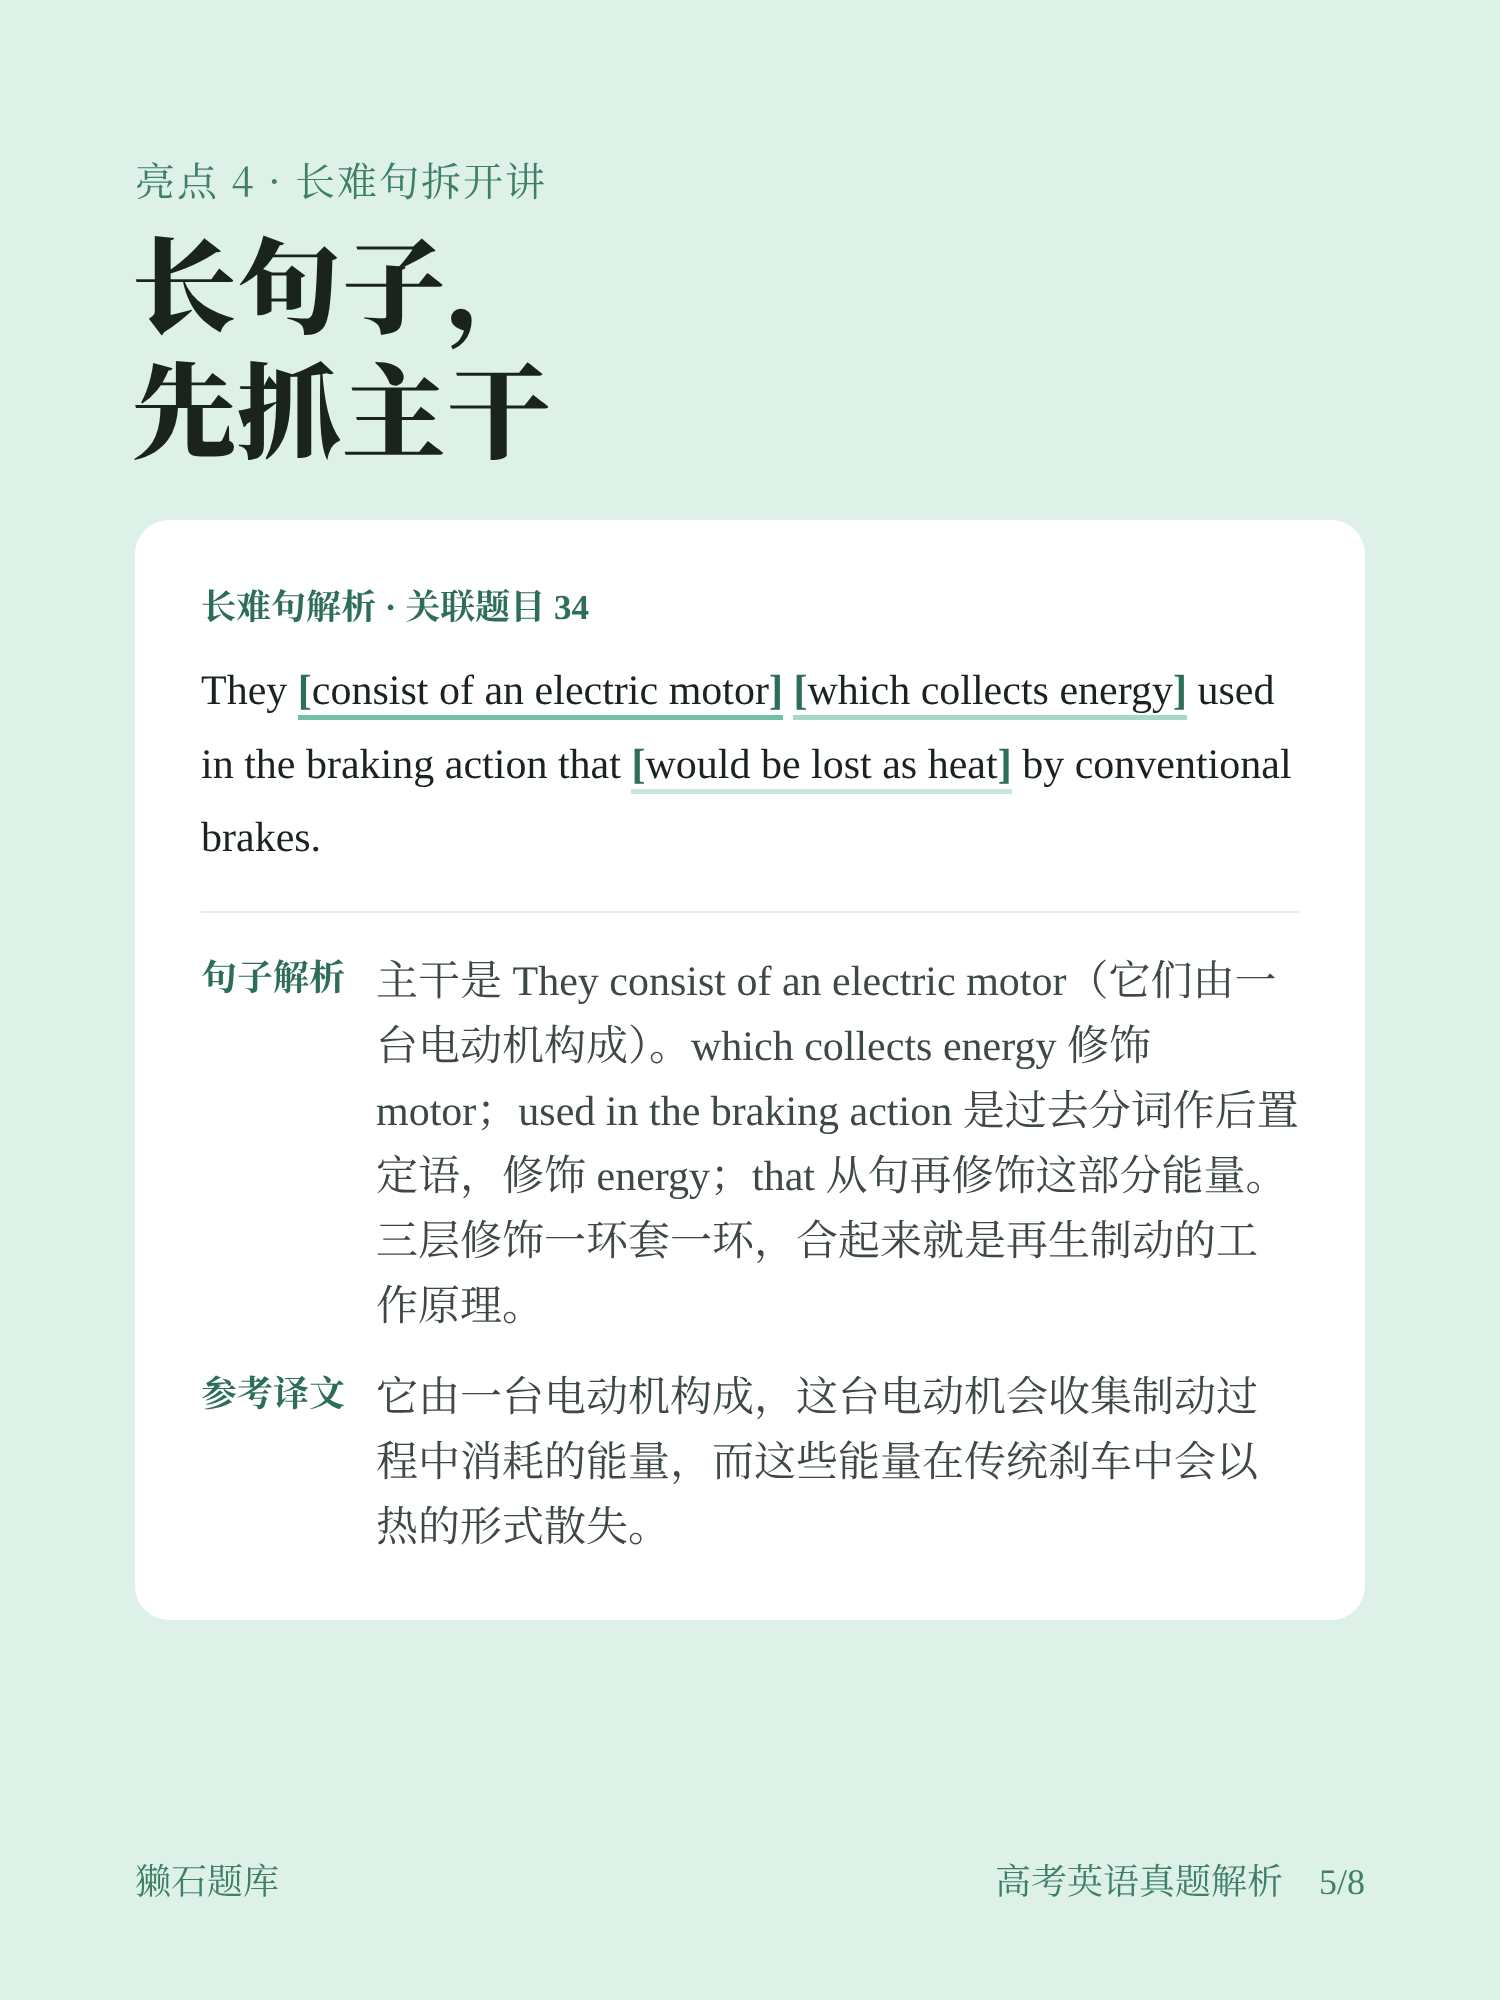
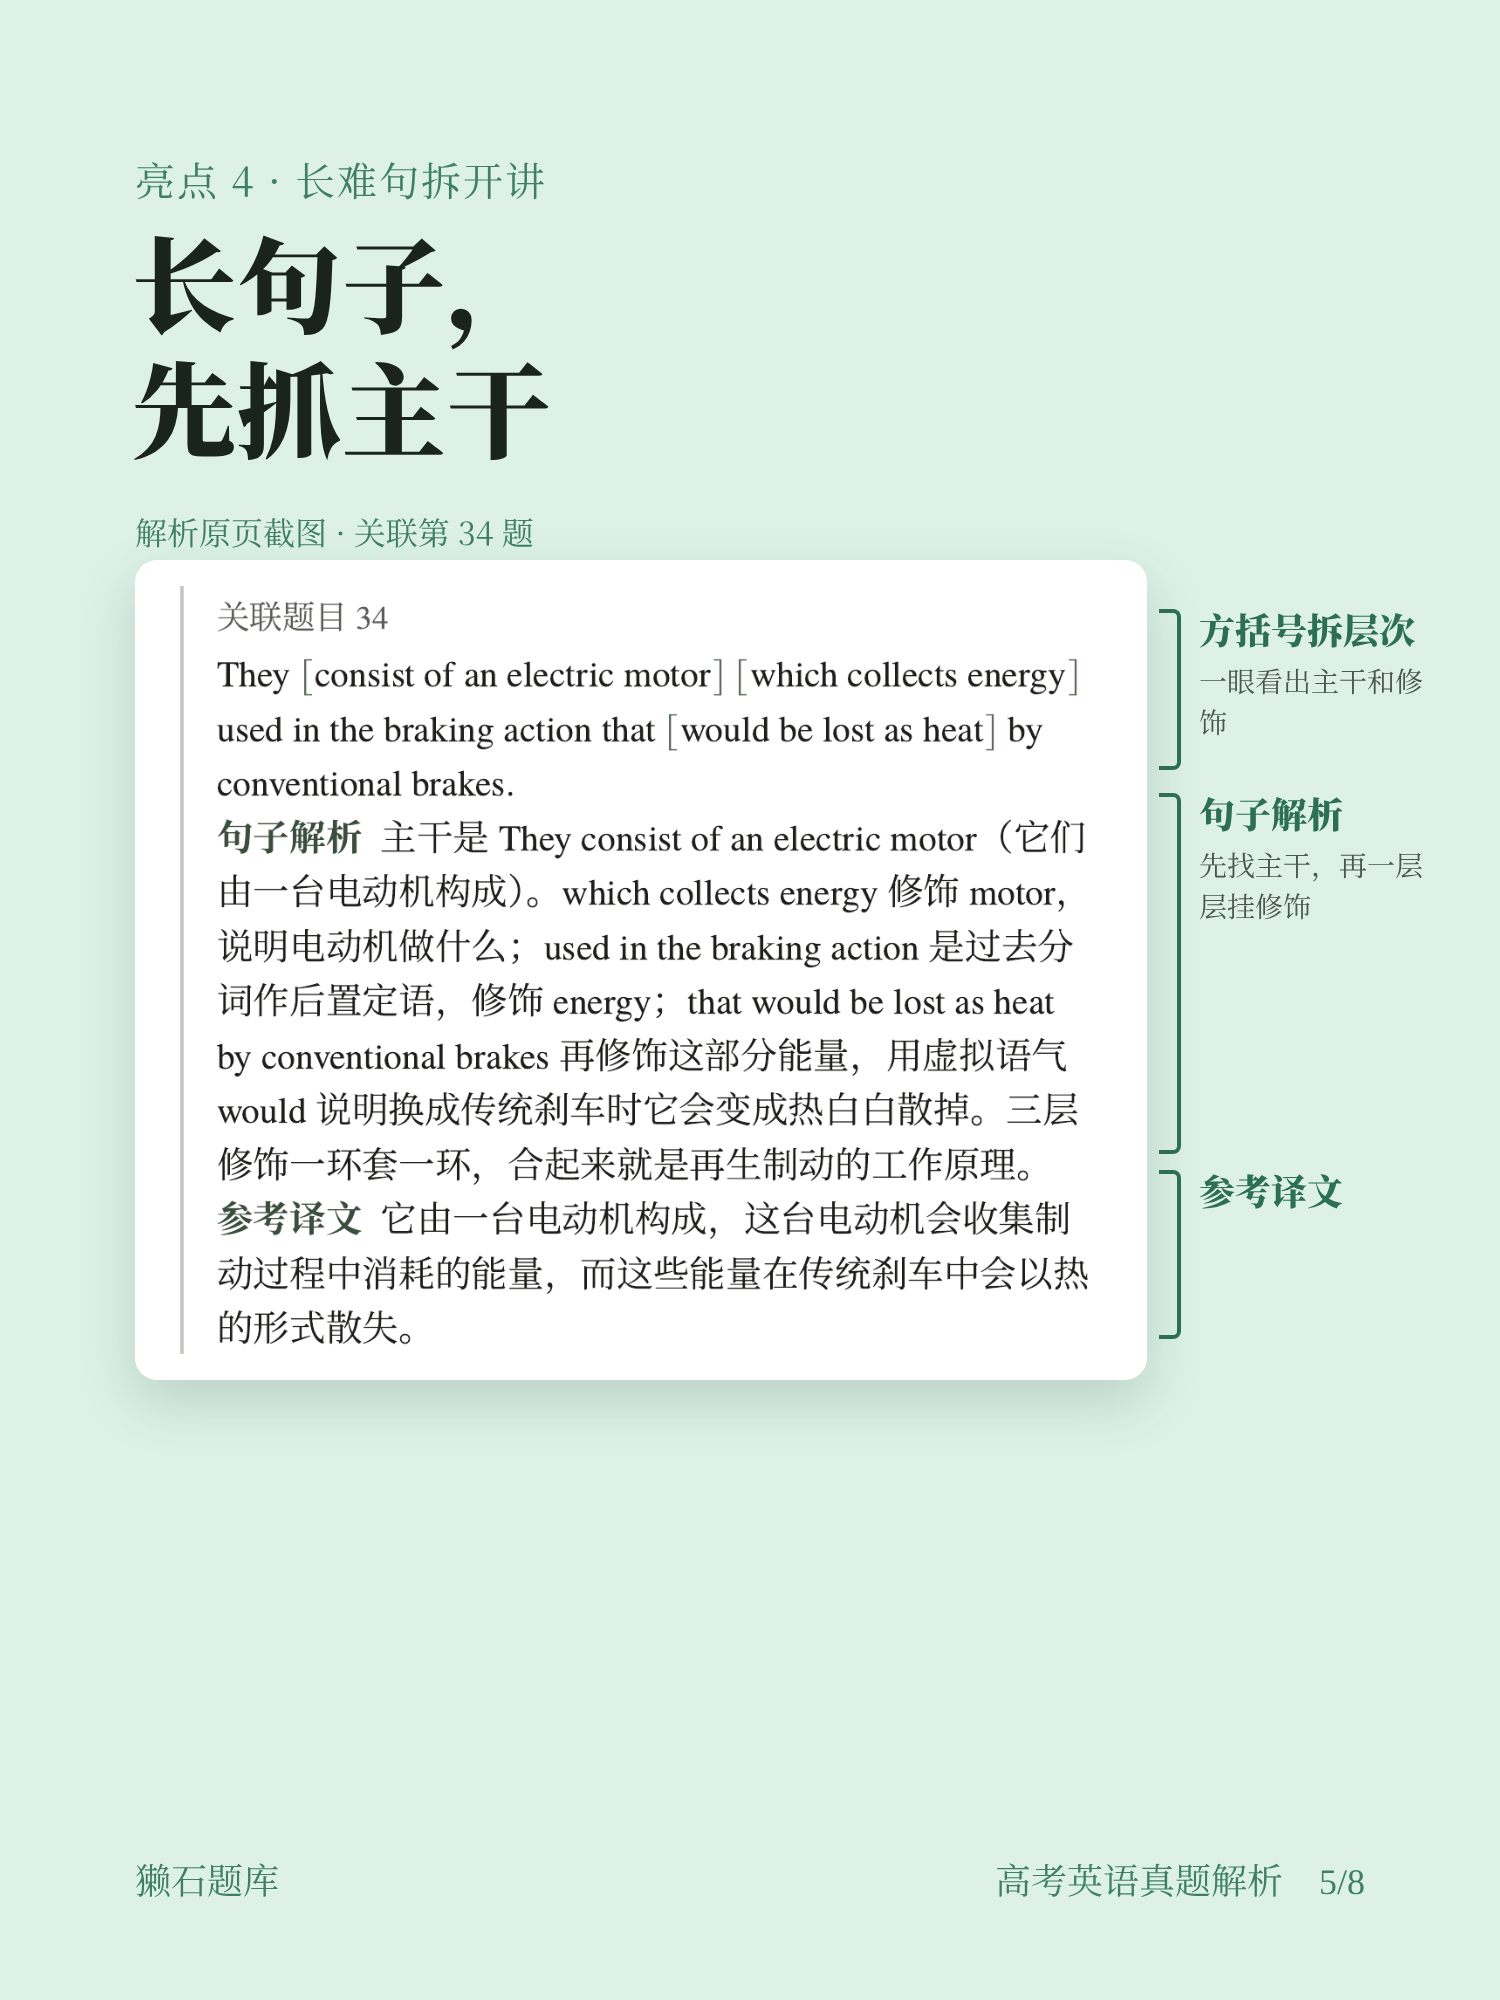
Highlight carousel: real PDF crops with callouts, livelier cover otter
Claude-Session: https://claude.ai/code/session_01Ct2ZKAR8eRNsJG4UDaFzH4

Changed region(s): [[0.092, 0.248, 0.9507, 0.837]]

diff --git a/design/social-2026-11-25/highlights/cover.html b/design/social-2026-11-25/highlights/cover.html
@@ -5,7 +5,7 @@
 :root{--bg:#DDF1E8;--ink:#1B231E;--deep:#2C6E56;--kick:#3F7F68}
 *{margin:0;box-sizing:border-box}
 body{width:1500px;height:2000px;position:relative;overflow:hidden;background:var(--bg);font-family:"Liberation Serif",NS,serif;color:var(--ink)}
-.bg{position:absolute;inset:0;background:url(R1.png) center/cover}
+.bg{position:absolute;inset:0;background:url(R2.png) center/cover}
 .fadeTop{position:absolute;left:0;right:0;top:0;height:760px;background:linear-gradient(var(--bg) 0,var(--bg) 62%,rgba(221,241,232,0))}
 .fadeBot{position:absolute;left:0;right:0;bottom:0;height:300px;background:linear-gradient(rgba(221,241,232,0),rgba(221,241,232,.94) 45%,var(--bg))}
 .kicker{position:absolute;left:135px;top:150px;font:400 40px NS;color:var(--kick);letter-spacing:2px}

diff --git a/design/social-2026-11-25/highlights/shot2.js b/design/social-2026-11-25/highlights/shot2.js
@@ -1,0 +1,2 @@
+const {chromium}=require('playwright');const dir=process.argv[2];(async()=>{const b=await chromium.launch();const p=await b.newPage({viewport:{width:1500,height:2000}});
+for(const n of [2,3,4,5,6,7,8]){await p.goto('file://'+dir+'/p'+n+'.html');await p.evaluate(()=>document.fonts.ready);await p.waitForTimeout(300);await p.screenshot({path:dir+'/p'+n+'.png'});}await b.close();})()

diff --git a/design/social-2026-11-25/highlights/build2.py b/design/social-2026-11-25/highlights/build2.py
@@ -1,0 +1,60 @@
+import sys, os
+from PIL import Image
+F, OUT, CROPS = sys.argv[1], sys.argv[2], sys.argv[3]
+TOTAL=8
+CSS=f"""
+@font-face{{font-family:NS;font-weight:400;src:url({F}/noto-serif-sc-chinese-simplified-400-normal.woff2)}}
+@font-face{{font-family:NS;font-weight:700;src:url({F}/noto-serif-sc-chinese-simplified-700-normal.woff2)}}
+@font-face{{font-family:NS;font-weight:900;src:url({F}/noto-serif-sc-chinese-simplified-900-normal.woff2)}}
+:root{{--bg:#DDF1E8;--ink:#1B231E;--deep:#2C6E56;--kick:#3F7F68;--mute:#4A564F}}
+*{{margin:0;box-sizing:border-box}}
+body{{width:1500px;height:2000px;position:relative;overflow:hidden;background:var(--bg);font-family:"Liberation Serif",NS,serif;color:var(--ink)}}
+.kicker{{position:absolute;left:135px;top:150px;font:400 40px NS;color:var(--kick);letter-spacing:2px}}
+h1{{position:absolute;left:132px;top:218px;font:900 104px/1.2 NS;letter-spacing:1px}}
+.cap{{position:absolute;left:135px;font:400 32px NS;color:var(--kick)}}
+.shot{{position:absolute;left:135px;background:#fff;border-radius:22px;padding:26px;box-shadow:0 22px 56px rgba(30,70,55,.18)}}
+.shot img{{display:block}}
+.call{{position:absolute;left:0;width:250px}}
+.call .br{{position:absolute;left:-46px;width:22px;border:4px solid var(--deep);border-left:none;border-radius:0 8px 8px 0}}
+.call .ar{{position:absolute;left:-24px;width:30px;height:4px;background:var(--deep)}}
+.call b{{display:block;font:900 36px NS;color:var(--deep)}}
+.call span{{display:block;font:400 28px/1.45 NS;color:var(--mute);margin-top:6px}}
+.note{{position:absolute;left:135px;right:135px;font:400 36px/1.6 "Liberation Serif",NS;color:var(--mute)}}
+.foot{{position:absolute;left:135px;right:135px;bottom:96px;display:flex;justify-content:space-between;font:400 36px NS;color:var(--kick)}}
+"""
+def page(n,kicker,title,crop,cap,calls,width=960,top=560,note=None,side=True,extra=''):
+    im=Image.open(f"{CROPS}/{crop}.png"); s=width/im.width; h=round(im.height*s)
+    x0=135+26+width+26
+    cs=""
+    if side:
+        prev=0
+        for (a,b,lab,desc) in calls:
+            ya=top+26+a*h; yb=top+26+b*h
+            ly=max(ya-6,prev+14); prev=ly+50+(44*((len(desc)+7)//8) if desc else 0)
+            cs+=f'<div class="br" style="position:absolute;left:{x0+12}px;top:{ya:.0f}px;width:22px;height:{yb-ya:.0f}px;border:4px solid #2C6E56;border-left:none;border-radius:0 8px 8px 0"></div>'
+            cs+=f'<div class="call" style="left:{x0+52}px;top:{ly:.0f}px"><b>{lab}</b><span>{desc}</span></div>'
+    nt=f'<div class="note" style="top:{top+h+52+36}px">{note}</div>' if note else ""
+    return f"""<!doctype html><html><head><meta charset="utf-8"><style>{CSS}</style></head><body>
+<div class="kicker">{kicker}</div><h1>{title}</h1>
+<div class="cap" style="top:{top-52}px">{cap}</div>
+<div class="shot" style="top:{top}px"><img src="{CROPS}/{crop}.png" style="width:{width}px"></div>{cs}{nt}{extra}
+<div class="foot"><span>獭石题库</span><span>高考英语真题解析　<span style="font-family:'Liberation Serif'">{n}/{TOTAL}</span></span></div></body></html>"""
+P={}
+im=Image.open(f"{CROPS}/listen2.png"); lw=640; lh=round(im.height*lw/im.width); lt=1190
+ex=f'<div class="cap" style="top:{lt-52}px">解析原页截图 · 听力第 2 题</div><div class="shot" style="top:{lt}px"><img src="{CROPS}/listen2.png" style="width:{lw}px"></div>'
+ex+=f'<div class="call" style="left:{135+52+lw+50}px;top:{lt+120}px;width:470px"><b>听力也这样讲</b><span>原文、译文对着放，题号 [2] 直接标在答案那一句，淡绿底一眼找到。每段还标了主题语境。</span></div>'
+P[2]=page(2,"亮点 1 · 答案速查","65 道题的答案，<br>一页查完","answers","解析原页截图 · 第 1 页",[],width=1178,side=False,extra=ex)
+P[3]=page(3,"亮点 2 · 每题指回原文","先定位，<br>再拿原文说话","q25","解析原页截图 · 阅读 B 篇第 25 题",
+ [(.17,.34,"定位","题干词回到第几段第几句"),(.38,.55,"原文依据","答案那句原样引出，淡绿底标出"),(.56,.98,"正确选项","选项的词对上原文哪个词")])
+P[4]=page(4,"亮点 3 · 错项逐个讲","不说「与原文不符」，<br>说清错在哪","q26","解析原页截图 · 阅读 B 篇第 26 题",
+ [(.04,.42,"先讲对的","正确选项为什么对"),(.55,.98,"再讲错的","A 算年龄、C 借了 roof、D 原文没提，各说一句错在哪")])
+P[5]=page(5,"亮点 4 · 长难句拆开讲","长句子，<br>先抓主干","long34","解析原页截图 · 关联第 34 题",
+ [(.03,.24,"方括号拆层次","一眼看出主干和修饰"),(.27,.74,"句子解析","先找主干，再一层层挂修饰"),(.76,.98,"参考译文","")])
+P[6]=page(6,"亮点 5 · 完形和七选五","每个空，<br>都教一个找法","cloze48","解析原页截图 · 完形第 48 题",
+ [(.02,.13,"脉络","这里要什么意思"),(.14,.3,"找法","凭原文哪个词：形容词看情感"),(.33,.98,"其余三项","逐个说为什么不行")],
+ note="七选五把空前、答案、空后三行摆在一起；多余项说清它想骗哪一空。")
+P[7]=page(7,"亮点 6 · 作文","一道作文，<br>三篇范文对着看","better","解析原页截图 · 应用文「提高版多做了什么」",
+ [(.0,.35,"提高版的原句","引出来逐句讲"),(.36,.98,"多想了一步","比标准版具体在哪，为什么更好")],
+ note="另有审题卡（必须做到 / 可以换）、标准版、参考范文、逐段看和本题可用表达。")
+for n,h in P.items(): open(f"{OUT}/p{n}.html","w").write(h)
+print("ok")

diff --git a/design/social-2026-11-25/highlights/README.md b/design/social-2026-11-25/highlights/README.md
@@ -6,3 +6,8 @@
   1 封面 · 2 答案速查 · 3 定位 + 原文依据（阅读 B 篇 25）· 4 错项逐个讲（26）· 5 长难句（关联 34）· 6 完形找法（48）· 7 作文三篇范文 · 8 全卷覆盖
 - `build.py`：生成 2–8 页的 HTML（`python3 build.py <Noto Serif SC 字体目录> <输出目录>`），`shot.js` 截图。
 - `cover.html` + `R1.png`：封面排版和底图（gpt-image-2.6-sunburst，`prompt-R1.txt`），字体替换 `FONTS_SERIF`。
+
+## 第二版（2026-11-25）
+
+- 封面底图换成 `R2.png`：獭獭看镜头、爪子指着书上的高亮行（`prompt-R2.txt`）。`R3.png` 是低头看书的一版，对比 `contact-R.png`（左 R1 原版）。
+- 2–7 页改成「解析原页截图 + 右侧标注」：`crops/` 是从 2026 卷 PDF 按 300dpi 渲染后裁下的原图，`build2.py <字体目录> <输出目录> <crops目录>` 生成，`shot2.js` 截图。第 2 页另加听力第 2 题的截图。
